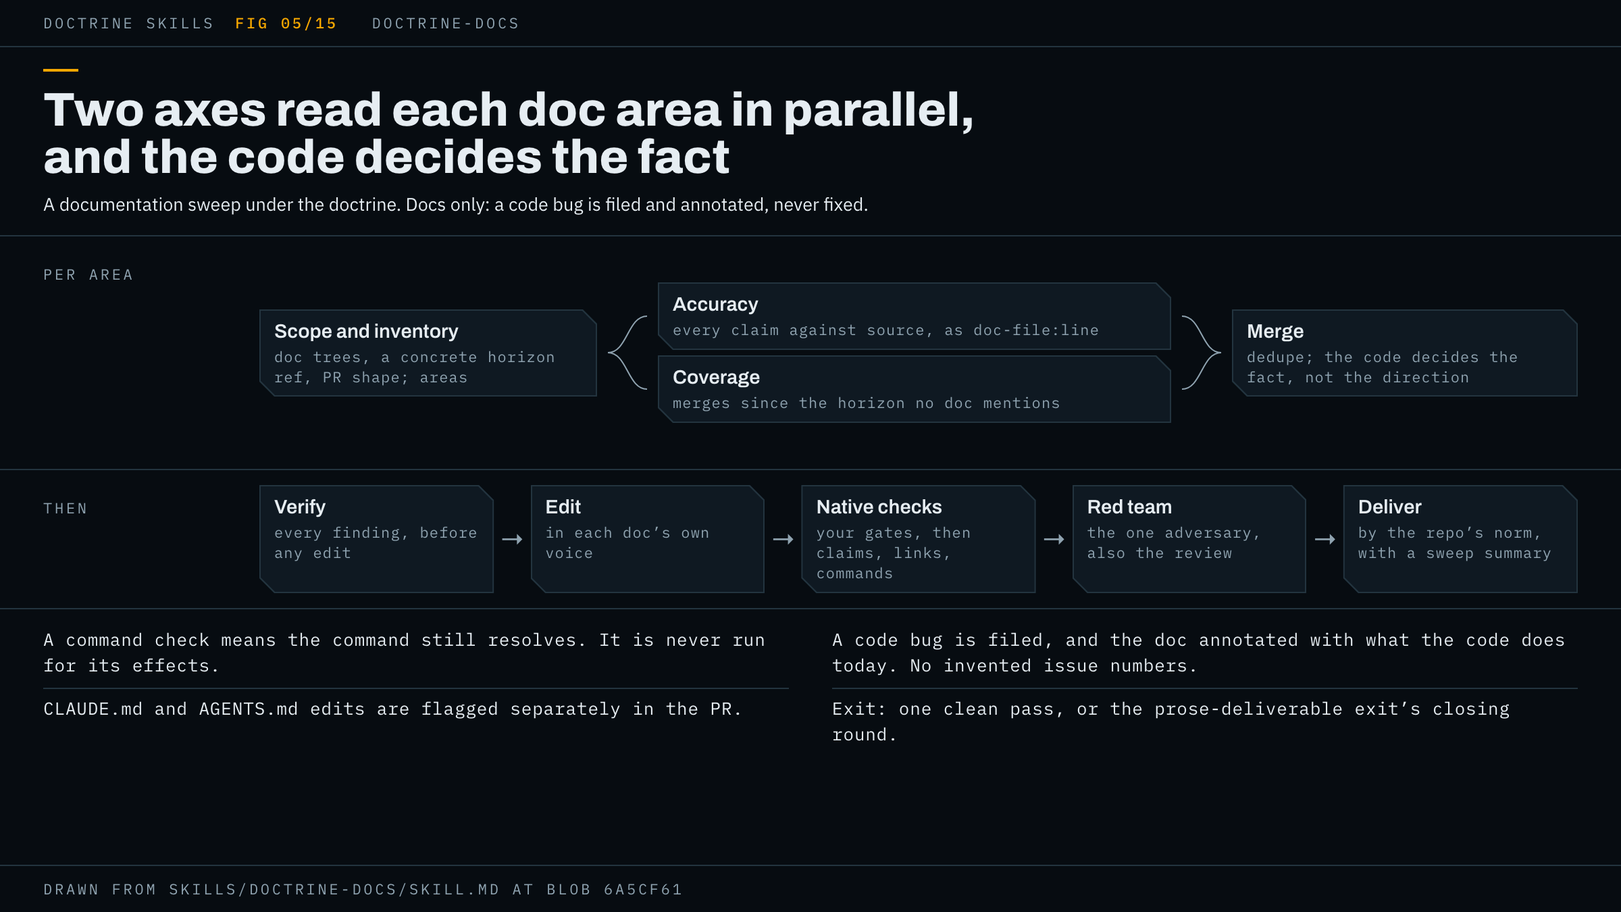
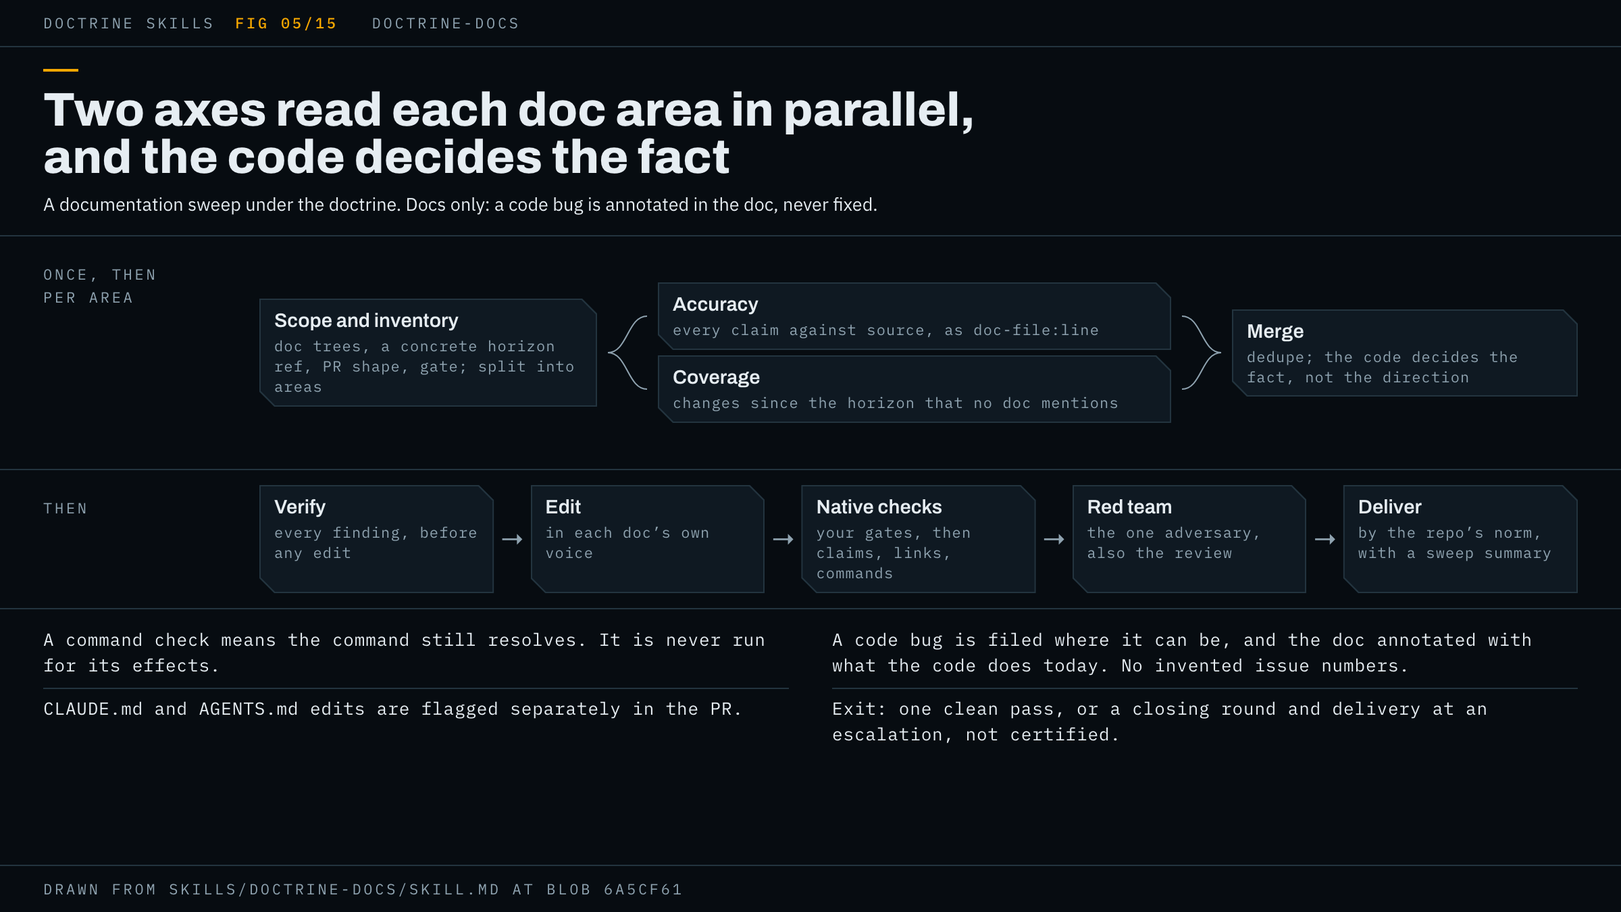
doctrine-docs page: alarms, the hub's red-team brief additions, the report's close, and the reduced gate's promotion stated as the doctrine has them

diff --git a/docs/skills/figures/doctrine-docs.html b/docs/skills/figures/doctrine-docs.html
@@ -13,17 +13,17 @@
 
 <section class="title">
   <h1>Two axes read each doc area in parallel, and the code decides the fact</h1>
-  <p>A documentation sweep under the doctrine. Docs only: a code bug is filed and annotated, never fixed.</p>
+  <p>A documentation sweep under the doctrine. Docs only: a code bug is annotated in the doc, never fixed.</p>
 </section>
 
 <section class="row">
-  <div class="label">Per area</div>
+  <div class="label">Once, then<br>per area</div>
   <div class="fan">
-    <div class="col" style="width:250px"><div class="box" id="scope"><b>Scope and inventory</b><span>doc trees, a concrete horizon ref, PR shape; areas</span></div></div>
+    <div class="col" style="width:250px"><div class="box" id="scope"><b>Scope and inventory</b><span>doc trees, a concrete horizon ref, PR shape, gate; split into areas</span></div></div>
     <svg class="wires" data-from="#scope" data-to=".axis"></svg>
     <div class="col" style="width:380px">
       <div class="box axis"><b>Accuracy</b><span>every claim against source, as doc-file:line</span></div>
-      <div class="box axis"><b>Coverage</b><span>merges since the horizon no doc mentions</span></div>
+      <div class="box axis"><b>Coverage</b><span>changes since the horizon that no doc mentions</span></div>
     </div>
     <svg class="wires" data-from=".axis" data-to="#merge"></svg>
     <div class="col" style="flex:1"><div class="box" id="merge"><b>Merge</b><span>dedupe; the code decides the fact, not the direction</span></div></div>
@@ -47,9 +47,9 @@
 
 <section class="notes">
   <p>A command check means the command still resolves. It is never run for its effects.</p>
-  <p>A code bug is filed, and the doc annotated with what the code does today. No invented issue numbers.</p>
+  <p>A code bug is filed where it can be, and the doc annotated with what the code does today. No invented issue numbers.</p>
   <p>CLAUDE.md and AGENTS.md edits are flagged separately in the PR.</p>
-  <p>Exit: one clean pass, or the prose-deliverable exit’s closing round.</p>
+  <p>Exit: one clean pass, or a closing round and delivery at an escalation, not certified.</p>
 </section>
 
 <footer class="foot">Drawn from skills/doctrine-docs/SKILL.md at blob 6a5cf61</footer>

diff --git a/docs/skills/doctrine-docs.md b/docs/skills/doctrine-docs.md
@@ -2,75 +2,88 @@
 
 A documentation sweep. The agent checks your docs against the code, fixes every claim the code no longer bears out, writes up shipped behaviour no doc mentions, and lands the result the way your repo ships work. It changes docs only.
 
-![The doctrine-docs flow. Scope questions and an inventory of doc areas fan out to parallel Accuracy and Coverage seats per area, which merge, with the code deciding facts. Then verify, edit, native checks, one red team that is also the review, and delivery by the repo's norm.](doctrine-docs.png)
+![The doctrine-docs flow. Scope questions and an inventory of doc areas, run once, fan out to parallel Accuracy and Coverage seats per area, which merge, with the code deciding facts. Then verify, edit, native checks, one red team that is also the review, and delivery by the repo's norm.](doctrine-docs.png)
 
-## When to use it
+## When to use it, and when not
 
-Use it when the docs should match the implementation and the implementation should stay as it is. It fires on a request for a documentation sweep: review the codebase so the docs reflect the current implementation, update stale docs, cover undocumented features, and land the sweep by the repo's delivery norm, a PR where that is the norm.
+Ask for a documentation sweep: the codebase reviewed so the docs reflect the current implementation, stale docs updated, undocumented features covered, and the result landed by your repo's delivery norm, a PR where that is the norm. Use it when the docs should change and the code should not.
 
 It does not fix code. When a doc and the code disagree because the code is wrong, the run files the bug on the project's tracker and rewrites the doc to say what the code does today, with an annotation: "currently does Y, see issue #N; intended X". Where it cannot file the issue, because your CLAUDE.md names no tracker, `gh` is not authenticated, or you have not said where issues go, the annotation goes in without a number ("currently does Y; intended X — unfiled, listed in the sweep summary") and the bug is listed in the summary instead. It never invents an issue number, never drops the annotation, and never stalls on a tracker.
 
 Use another skill for these:
 
 - Bug hunts: `doctrine-audit`. Code changes: `doctrine-code`.
-- A document that is itself the deliverable, such as a proposal, brief or report: `doctrine-write`. Its boundary line gives codebase-doc sweeps to this skill.
-- A one-off edit to one file nothing else reads needs no wrapper.
+- A document that is itself the deliverable, such as a proposal, brief or report: `doctrine-write`. Researched content for a multi-source question: `doctrine-research`. `doctrine-write`'s own text gives codebase-doc sweeps to this skill, and either of those can follow a sweep.
+- A one-off question, or a one-off edit to one file nothing else reads, needs no wrapper.
 
 `doctrine-docs` is a wrapper. It loads the [`doctrine`](doctrine.md) skill first, which supplies the gate, the anchor, the record, the two alarms and the end states, and it adds the task shape described here.
 
-## What it asks you first
+## What it asks you
 
 It asks only what your request left open and the repository cannot answer:
 
 1. **Which doc trees count**: README, `docs/`, CLAUDE.md, playbooks, or a subset.
-2. **The Coverage horizon**: the point in history after which the run looks for undocumented changes. It asks only where history does not settle this. Where the repository offers more than one defensible horizon, the run takes the widest, never the nearest: the last commit to touch the docs says when somebody last wrote, not when the code last changed. Where the candidates do not order, as with two branches neither of which contains the other, it gives each its own range. It becomes a question for you only where even that coverage would still be a guess about what you want covered. No Coverage seat goes out until the horizon is a concrete ref: a SHA, a tag or a date.
+2. **The Coverage horizon**: the point in history after which the run looks for undocumented changes. The run asks this only where history does not settle it. Where the repository offers more than one defensible horizon, the run takes the widest, never the nearest: the last commit to touch the docs says when somebody last wrote, not when the code last changed. Where the candidates do not order, as with two branches neither of which contains the other, it gives each its own range. It waits on your answer only where even that coverage would still be a guess about what you want covered. No Coverage seat goes out until the horizon is a concrete ref: a SHA, a tag or a date.
 3. **How the sweep lands**: whether you want a PR at all, and if so one PR or one per area. The default is one PR where your repo's norm is PRs.
 
-Your words become the anchor, which the doctrine writes to disk verbatim and hands to every agent that judges the work. It also records the two alarm bounds: a round count, 4 by default, and a time budget, two hours by default.
+Your request and your answers become the anchor, which the doctrine writes to disk verbatim and hands to every agent that judges the work. The record also holds the two alarm bounds: a round count, 4 by default, and a time budget, two hours by default.
 
-Two things can come back to you later. When the two axes agree on what the code does and disagree on what the doc should say about it, the run puts that through the doctrine's direction test: if only you can answer it and the doc reads differently either way, it waits for you; otherwise it decides and writes the ruling and its reason into the record. And before the loop it proposes which gate the sweep earns (below).
+Later in the run, the following can come back to you:
+
+- **A gate proposal**, before any wave goes out. See "Which gate" below. If you do not answer, the sweep runs the full gate.
+- **A direction question.** When the two axes agree on what the code does and disagree on what the doc should say about it, the run puts that through the doctrine's direction test. If only you can answer it and the doc reads differently either way, the run waits for you. Otherwise it decides and writes the ruling and its reason into the record.
+- **An alarm.** The round alarm fires at every multiple of the round count, counting rounds that found a blocking finding. The time alarm fires when the time since the last round closed, or since the sweep began where no round has, passes the budget. Either one stops the loop and puts a diagnosis to you: what shipping now would mean, why the loop has not closed, and whether it can. The time alarm waits for your ruling. At the round alarm's first firing this skill's exit takes over (see "Exit" below), and the closing round opens without waiting unless you say stop.
 
 ## How a sweep runs
 
 1. **Scope.** The questions above, with the horizon settled as a concrete ref before anything is dispatched.
-2. **Inventory and waves.** The run splits the doc surface into areas and, for each area, dispatches two seats in parallel so neither pollutes the other's context:
+2. **Inventory, gate proposal and waves.** The run splits the doc surface into areas and proposes a gate to you. For each area it then dispatches two seats in parallel, so neither pollutes the other's context:
    - **Accuracy** checks every checkable claim in each doc (paths, commands, environment variables, endpoints, flags, behaviour) against the current source, and reports each stale one as `doc-file:line` with the evidence in code.
    - **Coverage** walks the merges since the horizon and the module list, and reports each shipped feature or behaviour change that no doc mentions, with the code evidence a writer needs.
 
-   The two lists are merged and deduplicated per area before any edit. Where they disagree on a fact, the code decides. Where they agree on the fact and disagree on what to do, the code decides nothing, and the direction test above applies.
-3. **Verify.** Every finding is checked against source before an edit. The false positive this skill fears most is a "stale" claim that was right, rewritten so the code loses an argument nobody checked.
+   The two lists are merged and deduplicated per area before any edit. Where they disagree on a fact, the code decides. Where they agree on the fact and disagree on what to do, the code decides nothing, and the direction test applies.
+3. **Verify.** Every finding is checked against source before an edit. The false positive this skill fears most is a "stale" claim that was correct and gets rewritten.
 4. **Edit.** Accuracy findings are fixed and Coverage gaps written, each in the voice and structure of the doc it lands in, using `writing-clearly-and-concisely` if you have it and Strunk's core rules otherwise (omit needless words, active voice, definite concrete language). Redundant docs are deleted rather than kept in step. An edit to CLAUDE.md or AGENTS.md changes how agents behave, so it is flagged separately in the PR.
-5. **Native checks, red team, loop.** Described in the next section.
-6. **Simplify.** The doctrine's simplification review runs before the pass expected to certify the result, so its changes are inside what that pass certifies.
-7. **Deliver.** By the repository's norm, with a sweep summary: docs touched, stale claims fixed, gaps filled, bugs filed, and bugs not filed. Where the norm is a PR, it opens one and flags agent-instruction files separately. Where the norm is a patch, it hands over the diff and says so. Where there is no remote, no `gh`, or you said local-only, it commits locally and asks before pushing.
+5. **Native checks, red team, loop.** Described under "The gate". Inside this loop, before the pass expected to certify the result, the doctrine's simplification review runs, so its changes are inside what that pass certifies.
+6. **Deliver.** By the repository's norm. Where the norm is a PR, the run opens one and flags agent-instruction files separately. Where it is a patch, the run hands over the diff and says so. Where there is no remote, no `gh`, or you said local-only, it commits locally and asks before pushing. The report opens with the gate line, then the sweep summary (docs touched, stale claims fixed, gaps filled, bugs filed, and bugs not filed), then the deferred list of non-blocking improvements, and closes by walking your request item by item, naming where each landed or why it was deferred.
 
 ## The gate
 
 **Native checks.** Every check your project documents as a gate, in its CLAUDE.md, README, review doc or task runner, runs first: `vale`, `markdownlint`, `mkdocs build --strict`, a link checker, whatever is there. A project with no build step still has gates, so the run reads `package.json` scripts or their equivalent itself. Three checks are added to yours, never substituted for them: every edited claim re-verified against source, a link and path check, and a command check.
 
-**The command check never runs the command.** It confirms that the command still resolves: the binary exists, the script name is in the task runner, the flags match `--help`. The run never executes a documented command for its effects, such as `npm run migrate` or `terraform apply`. Where only running a command could verify a claim, the claim is marked unverified and the summary says so. This boundary is written into every Accuracy prompt and every red-team brief, because the seat told to verify a command is the one that would otherwise run it. For a deliverable that does not execute, the doctrine counts these checks as the run in the real environment its gate requires.
+**The command check never runs the command.** It confirms that the command still resolves: the binary exists, the script name is in the task runner, the flags match `--help`. The run never executes a documented command for its effects, such as `npm run migrate` or `terraform apply`. Where only running a command could verify a claim, the claim is marked unverified and the summary says so. This boundary is written into every Accuracy prompt and every red-team brief, because the seat told to verify a command is the one that would otherwise run it. The doctrine's gate requires one run in the real environment, and for docs, which do not execute, re-verifying the edited claims plus the link and path check is that run.
 
-**The red team is also the review.** This skill names no separate review. One adversarial pass per round fills both slots, so its brief is the whole review. It gets the doc diff with each edited doc whole beside it; what the sweep was meant to do; the Accuracy and Coverage findings already cleared; the evidence those seats worked from (the `--help` output and other command evidence, and the merge and module history over the horizon); the annotation rule and the rule that a CLAUDE.md or AGENTS.md edit is flagged; the clarity method, with word that a doc's own voice and structure win over it; the command boundary; and the scope you settled. It answers on four axes: claims still wrong, errors the edit introduced, coverage the sweep missed, and each doc's voice and structure. Its return comes back sorted into blocking, non-blocking, and what it attacked and could not break. Every finding is verified against source before anything changes.
+**The red team is also the review.** This skill names no separate review. One adversarial pass per round fills both slots, so its brief is the whole review. The skill hands it:
+
+- the doc diff itself, never filenames, with each edited doc whole beside it;
+- what the sweep was meant to do, and the Accuracy and Coverage findings already cleared;
+- the evidence those seats worked from: the `--help` output and other command evidence, and the merge and module history over the horizon;
+- the annotation rule, and the rule that a CLAUDE.md or AGENTS.md edit is flagged;
+- the clarity method, with the rule that each doc's own voice and structure win over it;
+- the command boundary;
+- the scope you settled.
+
+The doctrine adds the anchor, the definition of a blocking finding, the questions you ruled closed and the claims already refuted, your project's documented rules, and the instruction that the seat reports and never edits. It answers on four axes: claims still wrong, errors the edit introduced, coverage the sweep missed, and each doc's voice and structure. It returns blocking findings, then non-blocking ones, then what it attacked and could not break. A return with no attack list counts as no review. Every finding is verified against source before anything changes.
 
 The red team comes from the other model family where it can: the codex plugin's `codex:codex-rescue` seat on Claude Code, and the Claude Code CLI on Codex CLI. Without it, a fresh-context subagent of the same model takes the seat, and the report names the substitution.
 
-**Which gate.** Before the loop, the run searches who reads the docs in scope and proposes a gate to you: the full gate, or the doctrine's reduced gate, which is your project's checks plus one adversarial review re-run on any repair, with no loop and no alarms; a second blocking finding moves it to the full gate. Only your choice puts the sweep on the reduced gate, and with no answer it runs the full one.
+**Which gate.** Before any wave goes out, the run finds out who reads the docs in scope and proposes a gate to you: the full gate, or the doctrine's reduced gate, which is your project's checks plus one adversarial review, re-run on its repair, with no loop and no alarms. If that re-run finds another blocking finding, the sweep moves to the full gate. Only your choice puts the sweep on the reduced gate, and with no answer it runs the full one.
 
-**Exit.** On the full gate, the sweep exits on one clean pass: no blocking finding, none left open from an earlier pass, and the checks above on record for that revision. A finding blocks when someone acting on the docs as they stand would do the wrong thing; a false claim about what the product does is the standing case. The skill adopts the doctrine's prose-deliverable exit: where no pass has come clean by the round alarm's first firing, one closing round reviews only what changed since the last fully reviewed revision, or the whole sweep where none was, and the sweep then ships at an escalation with a punch list of what it did not fix. The doctrine's rule that documentation waits until a phase exits does not apply, because the docs are the deliverable.
+**Exit.** On the full gate, the sweep exits on one clean pass: no blocking finding, none left open from an earlier pass, and the checks above on record for that revision. A finding blocks when someone acting on the docs as they stand would do the wrong thing; a false claim about what the product does is the standing case. The skill adopts the doctrine's prose-deliverable exit: where no pass has come clean by the round alarm's first firing, one closing round reviews only what changed since the last fully reviewed revision, or the whole sweep where none was. The sweep then ships at an escalation, not certified, with a punch list of what it did not fix. The doctrine's other endings also apply: you can stop the loop, the run can end blocked on a question you have not answered, or it can end unable to continue, and the report names which. Docs written during the loop are not deferred to after it, as the doctrine defers other documentation, because here the docs are the deliverable.
 
-The report opens with a gate line in the form the README shows, for example `Gate: clean pass on b71c2e0, real run on record. No blockers open.`
+The gate line takes the form the README shows, for example `Gate: clean pass on b71c2e0, real run on record. No blockers open.`
 
-**The record** lives where the doctrine puts it by default: beside the work in your repo, excluded from version control and from every reviewer's diff, with its path named in the report.
+**The record** lives where the doctrine puts it by default: beside the work in your repo, excluded from version control and from every reviewer's diff and search, with its path named in the report.
 
-## An example
+## A worked example
 
 This is illustrative, not a recorded run.
 
-In a Node project whose `package.json` has a `lint:docs` script, you type `use doctrine-docs on this repo; the API docs are behind the code`. The run asks which trees count and how to land; you answer README and `docs/`, one PR. It does not ask the horizon, because the repo has release tags and it takes the widest defensible one. Four seats go out, Accuracy and Coverage for each of two areas. Of seven findings, verification drops one as a false positive and turns one into a filed bug with an annotated doc. After the edits, `npm run lint:docs` passes and every edited claim, link and command is checked, none executed. The first red-team pass finds the new text names an environment variable the code reads under another name; the fix is verified and the second pass comes back clean. One PR opens, with the gate line first and the sweep summary under it.
+In a Node project whose `package.json` has a `lint:docs` script, you type `use doctrine-docs on this repo; the API docs are behind the code`. The run asks which trees count and how to land; you answer README and `docs/`, one PR. It does not ask the horizon, because the repo has release tags and it takes the widest defensible one. Four seats go out, Accuracy and Coverage for each of two areas. Of seven findings, verification drops one as a false positive and turns one into a filed bug with an annotated doc. After the edits, `npm run lint:docs` passes, and every edited claim, link and command is checked, none executed. The first red-team pass finds that the new text names an environment variable the code reads under another name. The fix is verified, and the second pass comes back clean. One PR opens, with the gate line first and the sweep summary under it.
 
 ## How to invoke it
 
-Ask for a documentation sweep, or run `/doctrine:doctrine-docs`. Naming the trees, the horizon and the landing up front answers every scope question, so the run asks nothing before it starts:
+Ask for a documentation sweep, or run `/doctrine:doctrine-docs`. Naming the trees, the horizon and the landing up front answers every scope question, so the only thing left to come back before the work starts is the gate proposal, which runs the full gate if you ignore it:
 
 ```text
 use doctrine-docs: sweep README and docs/ against the code since v2.3.0, one PR
@@ -80,9 +93,9 @@ use doctrine-docs: sweep README and docs/ against the code since v2.3.0, one PR
 
 Nothing beyond the plugin has to be installed. Each of these has a fallback:
 
-- `writing-clearly-and-concisely`, which this skill names for the editing pass and the red team's clarity method. Without it, Strunk's core rules inline.
-- The codex plugin on Claude Code, or the Claude Code CLI on Codex CLI, for the red team from the other model family. Without it, a same-model subagent, named as such.
-- superpowers and ponytail, which the doctrine uses for parallel dispatch and the simplification review. Without them, plain parallel seats and `/simplify` or a manual pass.
+- `writing-clearly-and-concisely`, which this skill names for the editing pass and the red team's clarity method. Without it, the run applies Strunk's core rules.
+- The codex plugin on Claude Code, or the Claude Code CLI on Codex CLI, for the red team from the other model family. Without it, a same-model subagent takes the seat and is named as such.
+- superpowers and ponytail, which the doctrine uses for parallel dispatch and the simplification review. Without them, the run dispatches plain parallel seats and simplifies with `/simplify` or a manual pass.
 
 The full list is in [`docs/requirements.md`](../requirements.md). Watching seats run in panes needs herdr: see [Watching a run](../watching-a-run.md).
 
@@ -90,9 +103,9 @@ The full list is in [`docs/requirements.md`](../requirements.md). Watching seats
 
 Signs a run went wrong:
 
-- The report says claims were re-verified, but your repo's `vale`, `markdownlint` or docs build never ran.
+- The report said claims were re-verified, but your repo's `vale`, `markdownlint` or docs build never ran.
 - A documented command was executed to check it, and changed state.
-- An annotation carries an issue number nobody filed, or was dropped because no number existed.
+- An annotation carried an issue number nobody filed, or was dropped because no number existed.
 - Coverage seats went out before the horizon was a concrete ref.
 - The red team got the diff alone, returned taste, reopened scope you settled, and still counted as the review.
 - A PR was opened in a repo whose norm is a local commit or a patch.
